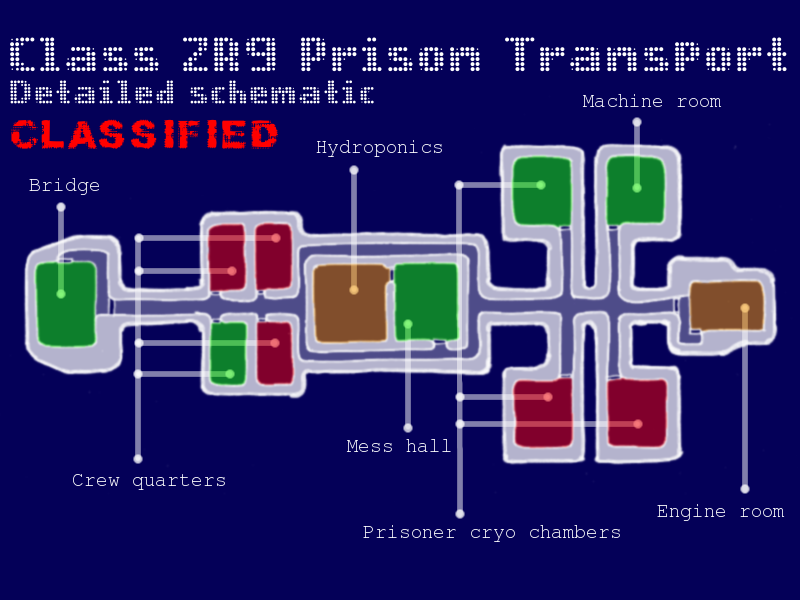
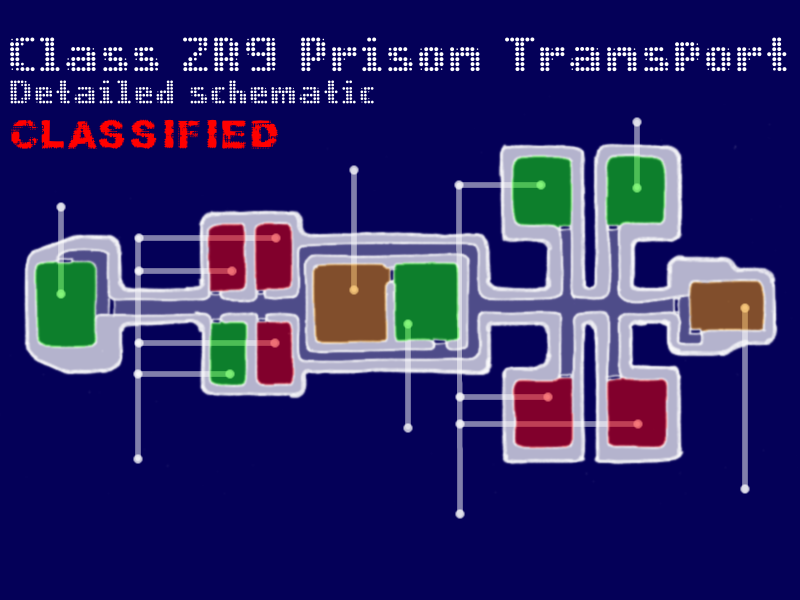
Convert map to use InteractText for room labels

diff --git a/gamelib/scenes/map.py b/gamelib/scenes/map.py
@@ -9,7 +9,8 @@
 
 from pyntnclick.i18n import _
 from pyntnclick.state import Scene, Thing, Result
-from pyntnclick.scenewidgets import InteractRectUnion
+from pyntnclick.scenewidgets import (InteractRectUnion, InteractUnion,
+        InteractText, InteractNoImage)
 
 from gamelib.scenes.game_constants import PLAYER_ID
 from gamelib.scenes.game_widgets import make_jim_dialog
@@ -68,9 +69,10 @@ class ToCryo(DoorThing):
     DEST = "cryo"
 
     INTERACTS = {
-        'door': InteractRectUnion((
-            (515, 158, 56, 68),
-            (361, 519, 245, 29),
+        'door': InteractUnion((
+            InteractNoImage(515, 158, 56, 68),
+            InteractText(361, 512, 245, 33, _("Prisoner cryo chambers"),
+                'white', 20, 'Monospace.ttf'),
         ))
     }
 
@@ -84,9 +86,10 @@ class ToBridge(DoorThing):
     DEST = "bridge"
 
     INTERACTS = {
-        'door': InteractRectUnion((
-            (36, 260, 60, 83),
-            (26, 177, 71, 21),
+        'door': InteractUnion((
+            InteractNoImage(36, 260, 60, 83),
+            InteractText(26, 170, 71, 33, _("Bridge"), 'white', 20,
+                'Monospace.ttf'),
         ))
     }
 
@@ -100,9 +103,10 @@ class ToMess(DoorThing):
     DEST = "mess"
 
     INTERACTS = {
-        'door': InteractRectUnion((
-            (395, 262, 64, 80),
-            (341, 434, 110, 27),
+        'door': InteractUnion((
+            InteractNoImage(395, 262, 64, 80),
+            InteractText(341, 430, 110, 33, _("Mess hall"), 'white', 20,
+                'Monospace.ttf'),
         ))
     }
 
@@ -116,9 +120,10 @@ class ToEngine(DoorThing):
     DEST = "engine"
 
     INTERACTS = {
-        'door': InteractRectUnion((
-            (691, 279, 76, 54),
-            (662, 500, 128, 23),
+        'door': InteractUnion((
+            InteractNoImage(691, 279, 76, 54),
+            InteractText(662, 496, 128, 33, _("Engine room"), 'white', 20,
+                'Monospace.ttf'),
         ))
     }
 
@@ -140,9 +145,10 @@ class ToMachine(DoorThing):
     DEST = "machine"
 
     INTERACTS = {
-        'door': InteractRectUnion((
-            (608, 156, 57, 72),
-            (578, 91, 140, 23),
+        'door': InteractUnion((
+            InteractNoImage(608, 156, 57, 72),
+            InteractText(578, 83, 140, 33, _("Machine room"), 'white', 20,
+                'Monospace.ttf'),
         ))
     }
 
@@ -156,9 +162,10 @@ class ToCrew(DoorThing):
     DEST = "crew_quarters"
 
     INTERACTS = {
-        'door': InteractRectUnion((
-            (210, 321, 37, 64),
-            (69, 469, 148, 26),
+        'door': InteractUnion((
+            InteractNoImage(210, 321, 37, 64),
+            InteractText(69, 460, 160, 33, _("Crew quarters"), 'white', 20,
+                'Monospace.ttf'),
         ))
     }
 
@@ -190,9 +197,10 @@ class HydroponicsArea(Thing):
     NAME = 'map.hydroponics'
 
     INTERACTS = {
-        'areas': InteractRectUnion((
-            (314, 263, 73, 81),
-            (313, 138, 125, 22),
+        'areas': InteractUnion((
+            InteractNoImage(314, 263, 73, 81),
+            InteractText(313, 132, 140, 33, _("Hydroponics"), 'white', 20,
+                'Monospace.ttf'),
         ))
     }
 
